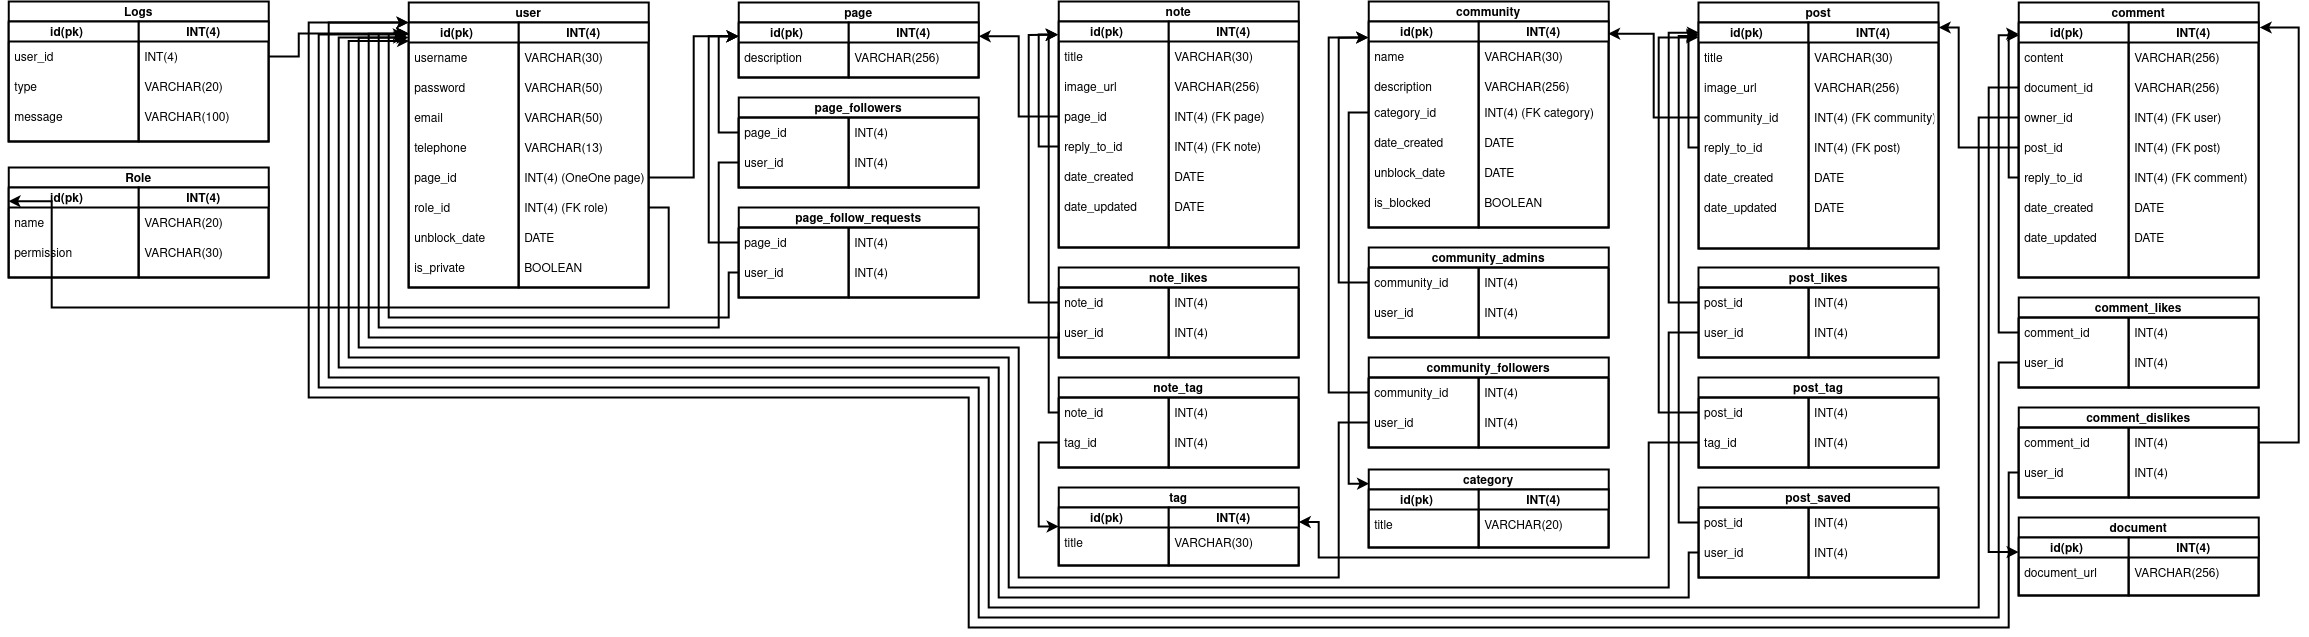
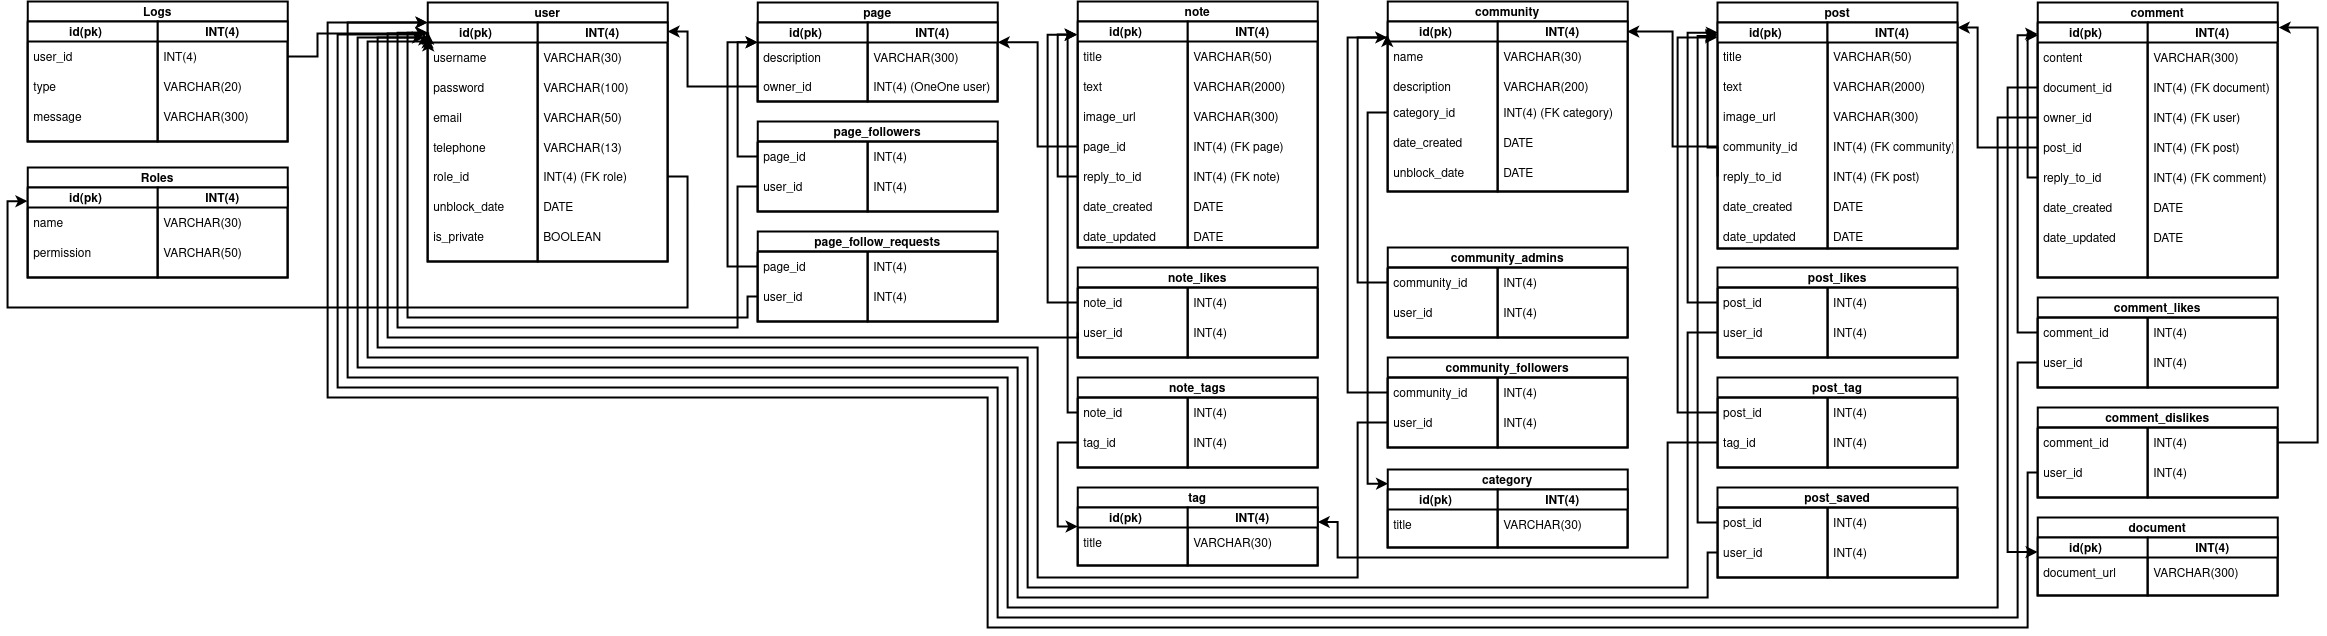
Edit entities according the 3NF

Changed region(s): [[0.0, 0.0, 0.9978, 1.0], [0.9043, 0.0, 0.9355, 0.0299], [0.6236, 0.0, 0.6548, 0.0299]]

diff --git a/ENTITIES.md b/ENTITIES.md
@@ -1,75 +1,143 @@
 # Описание сущностей
-(имя поля, тип, ограничения, связь с другими сущностями)
+( field name, type, constraints, description с другими сущностями)
 
 ## Пользователь (User)
-|имя поля | тип | ограничения | описание |
+| field name | type | constraints | description |
 |:---:|:---:|:---:|:---:|
-| id | pk | auto increment; not null; unique | первичный ключ |
-| username | VARCHAR(50) | not null; unique | имя пользователя |
-| password | VARCHAR(255) | not null | пароль |
-| email | VARCHAR(100) | blank=True | эл почта |
-| telephone | VARCHAR(10) | blank=True, unique | номер телефона |
+| id | INT | PRIMARY KEY | первичный ключ |
+| username | VARCHAR(30) | NOT NULL, UNIQUE | имя пользователя |
+| password | VARCHAR(100) | NOT NULL | пароль |
+| email | VARCHAR(50) | UNIQUE | эл почта |
+| telephone | VARCHAR(13) | UNIQUE | номер телефона |
 | unblock_date | DATE | - | дата разблокировки пользователя |
 ## Страница Пользователя (Page)
-|имя поля | тип | ограничения | описание |
+| field name | type | constraints | description |
 |:---:|:---:|:---:|:---:|
-| id | pk | auto increment; not null; unique | первичный ключ |
-| owner | OneToOneField(User) | not null | пользователь к которому прикреплена эта страница |
-| followers | ManyToMany(User) | not null | подписчики страницы |
-## Пост (Post)
-|имя поля | тип | ограничения | описание |
+| id | INT | PRIMARY KEY | первичный ключ |
+| description | VARCHAR(300) | - | подписчики страницы |
+| owner_id | INT | NOT NULL, UNIQUE, REFERENCES User(id) | пользователь к которому прикреплена эта страница |
+## Подписчики страницы (Page_followers)
+| field name | type | constraints | description |
 |:---:|:---:|:---:|:---:|
-| id | pk | auto increment; not null; unique | первичный ключ |
-| title | VARCHAR(100) | not null | заголовок поста |
-| likes | ManyToMany(User) | - | пользователи которые лайкнули пост |
-| image_url | VARCHAR(255) | - | ссылка s3 на изображение |
-| tag | ManyToMany(Tag) | not null | тег поста (тематика) |
-| page | ForeignKey(Page) | not null | страница пользователя который создал пост |
-| community | ForeignKey(Community) | not null | сообщество которое создало пост |
-| repost | ForeignKey(Post) | not null | пост который репостит этот пост |
-| date_created | DATE | not null | дата создания поста |
-## Сообщество (Community)
-|имя поля | тип | ограничения | описание |
+| page_id | INT | NOT NULL, REFERENCES Page(id) | страница на которую подписан пользователь |
+| user_id | INT | NOT NULL, REFERENCES User(id) | пользователь который подписан на страницу |
+## Запросы на подписку на страницу (Page_follow_requests)
+| field name | type | constraints | description |
 |:---:|:---:|:---:|:---:|
-| id | pk | auto increment; not null; unique | первичный ключ |
-| name | VARCHAR(50) | not null | название сообщества |
-| admins | ManyToMany(User) | not null | администраторы сообщества |
-| followers | ManyToMany(User) | not null | подписчики сообщества |
-| category | ForeignKey(Category) | not null | категория сообщества |
-| date_created | DATE | not null | дата создания сообщества |
-| unblock_date | DATE | - | дата разблокировки сообщества |
-## Комментарий (Comment)
-|имя поля | тип | ограничения | описание |
+| page_id | INT | NOT NULL, REFERENCES Page(id) | страница на которую подписан пользователь |
+| user_id | INT | NOT NULL, REFERENCES User(id) | пользователь который подписан на страницу |
+## Записка на странице (Note)
+| field name | type | constraints | description |
 |:---:|:---:|:---:|:---:|
-| id | pk | auto increment; not null; unique | первичный ключ |
-| content | VARCHAR(255) | not null | текстовый контент поста |
-| image_url | VARCHAR(255) | - | ссылка s3 на изображение |
-| likes | ForeignKey(User) | - | пользователи которые посчитали коммент ценным |
-| user | ForeignKey(User) | not null | пользователь который написал комент |
-| post | ForeignKey(Post) | not null | пост под которым написан комент |
-| reply_to | ForeignKey(Comment) | - | комент к которому прикреплен данный комент |
-| date_created | DATE | not null | дата создания коммента |
-| date_edited | DATE | - | дата последнего редактирования комента |
+| id | INT | PRIMARY KEY | первичный ключ |
+| title | VARCHAR(50) | - | заголовок записки |
+| text | VARCHAR(2000) | - | текст записки |
+| image_url | VARCHAR(300) | - | ссылка s3 на изображение |
+| page_id | INT | NOT NULL, REFERENCES Page(id) | страница на которой создана записка |
+| reply_to_id | INT | REFERENCES Note(id) | записка который репостит этот записку |
+| date_created | DATE | NOT NULL | дата создания записки |
+| date_updated | DATE | NOT NULL | дата последнего редактирования записки |
+## Лайки на записке (Note_likes)
+| field name | type | constraints | description |
+|:---:|:---:|:---:|:---:|
+| note_id | INT | NOT NULL, REFERENCES Note(id) | записка |
+| user_id | INT | NOT NULL, REFERENCES User(id) | пользователь который лайкнул |
+## Тэги записки (Note_tags)
+| field name | type | constraints | description |
+|:---:|:---:|:---:|:---:|
+| note_id | INT | NOT NULL, REFERENCES Note(id) | записка |
+| tag_id | INT | NOT NULL, REFERENCES Tag(id) | тэг |
 ## Тег (Tag)
-|имя поля | тип | ограничения | описание |
+| field name | type | constraints | description |
 |:---:|:---:|:---:|:---:|
-| id | pk | auto increment; not null; unique | первичный ключ |
-| title | VARCHAR(100) | not null | название тега |
+| id | INT | PRIMARY KEY | первичный ключ |
+| title | VARCHAR(30) | NOT NULL | название тега |
+## Сообщество (Community)
+| field name | type | constraints | description |
+|:---:|:---:|:---:|:---:|
+| id | INT | PRIMARY KEY | первичный ключ |
+| name | VARCHAR(30) | NOT NULL | название сообщества |
+| description | VARCHAR(200) | - | описание сообщества |
+| category_id | INT | REFERENCES Category(id) | название сообщества |
+| date_created | DATE | NOT NULL | дата создания сообщества |
+| unblock_date | DATE | - | дата разблокировки сообщества |
+## Администраторы сообщества (Community_admins)
+| field name | type | constraints | description |
+|:---:|:---:|:---:|:---:|
+| community_id | INT | NOT NULL, REFERENCES Community(id) | сообщество |
+| user_id | INT | NOT NULL, REFERENCES User(id) | администратор |
+## Подписчики сообщества (Community_followers)
+| field name | type | constraints | description |
+|:---:|:---:|:---:|:---:|
+| community_id | INT | NOT NULL, REFERENCES Community(id) | сообщество |
+| user_id | INT | NOT NULL, REFERENCES User(id) | подписчик |
 ## Категория (Category)
-|имя поля | тип | ограничения | описание |
+| field name | type | constraints | description |
 |:---:|:---:|:---:|:---:|
-| id | pk | auto increment; not null; unique | первичный ключ |
-| title | VARCHAR(100) | not null | название категории |
+| id | INT | PRIMARY KEY | первичный ключ |
+| title | VARCHAR(30) | NOT NULL | название категории |
+## Пост сообщества (Post)
+| field name | type | constraints | description |
+|:---:|:---:|:---:|:---:|
+| id | INT | PRIMARY KEY | первичный ключ |
+| title | VARCHAR(50) | - | заголовок поста |
+| text | VARCHAR(2000) | - | текст поста |
+| image_url | VARCHAR(300) | - | ссылка s3 на изображение |
+| community_id | INT | NOT NULL, REFERENCES Community(id) | страница на которой создан пост |
+| reply_to_id | INT | REFERENCES Post(id) | пост который репостит этот пост |
+| date_created | DATE | NOT NULL | дата создания поста |
+| date_updated | DATE | - | дата последнего редактирования поста |
+## Лайки на посте (Post_likes)
+| field name | type | constraints | description |
+|:---:|:---:|:---:|:---:|
+| post_id | INT | NOT NULL, REFERENCES Post(id) | пост |
+| user_id | INT | NOT NULL, REFERENCES User(id) | пользователь который лайкнул |
+## Тэги поста (Post_tags)
+| field name | type | constraints | description |
+|:---:|:---:|:---:|:---:|
+| post_id | INT | NOT NULL, REFERENCES Post(id) | пост |
+| tag_id | INT | NOT NULL, REFERENCES Tag(id) | тэг |
+## Пользователи сохранившие пост (Post_saved)
+| field name | type | constraints | description |
+|:---:|:---:|:---:|:---:|
+| post_id | INT | NOT NULL, REFERENCES Post(id) | пост |
+| user_id | INT | NOT NULL, REFERENCES User(id) | пользовтель сохранивший пост |
+## Комментарий (Comment)
+| field name | type | constraints | description |
+|:---:|:---:|:---:|:---:|
+| id | INT | PRIMARY KEY | первичный ключ |
+| content | VARCHAR(300) | - | текстовый контент поста |
+| document_id | REFERENCES Document(id) | - | ссылка s3 на документ |
+| owner_id | NOT NULL, REFERENCES User(id) | - | пользователь который написал коммент |
+| post_id | NOT NULL, REFERENCES User(id) | NOT NULL | пост под которым написан комент |
+| reply_to_id | NOT NULL, REFERENCES Comment(id) | NOT NULL | комент к которому прикреплен данный комент |
+| date_created | DATE | NOT NULL | дата создания коммента |
+| date_edited | DATE | - | дата последнего редактирования комента |
+## Лайки коммента (Comment_likes)
+| field name | type | constraints | description |
+|:---:|:---:|:---:|:---:|
+| post_id | INT | NOT NULL, REFERENCES Post(id) | пост |
+| user_id | INT | NOT NULL, REFERENCES User(id) | пользователь поставивший лайк |
+## Дизлайки коммента (Comment_dislikes)
+| field name | type | constraints | description |
+|:---:|:---:|:---:|:---:|
+| post_id | INT | NOT NULL, REFERENCES Post(id) | пост |
+| user_id | INT | NOT NULL, REFERENCES User(id) | пользователь поставивший дизлайк |
+## Документ (Document)
+| field name | type | constraints | description |
+|:---:|:---:|:---:|:---:|
+| id | INT | PRIMARY KEY | первичный ключ |
+| document_url | VARCHAR(300) | - | ссылка s3 на документ |
 ## Роли (Roles)
-|имя поля | тип | ограничения | описание |
+| field name | type | constraints | description |
 |:---:|:---:|:---:|:---:|
-| id | pk | auto increment; not null; unique | первичный ключ |
-| name | VARCHAR(50) | not null | название роли |
-| permission | VARCHAR(128) | not null | право пользователя |
+| id | INT | PRIMARY KEY | первичный ключ |
+| name | VARCHAR(30) | NOT NULL | название роли |
+| permission | VARCHAR(50) | NOT NULL | право пользователя |
 ## Логи (Logs)
-|имя поля | тип | ограничения | описание |
+| field name | type | constraints | description |
 |:---:|:---:|:---:|:---:|
-| id | pk | auto increment; not null; unique | первичный ключ |
-| user | ForeignKey(User) | not null | внешний ключ на пользователя |
-| type | VARCHAR(50) | not null | тип лога(CREATE/UPDATE/DELETE) |
-| representation | VARCHAR(255) | not null | строковое представление изменённого кортежа |
+| id | INT | PRIMARY KEY | первичный ключ |
+| user_id | INT | NOT NULL, REFERENCES User(id) | внешний ключ на пользователя |
+| type | VARCHAR(20) | NOT NULL | тип лога(CREATE/UPDATE/DELETE) |
+| message | VARCHAR(300) | NOT NULL | сообщение характеризующее лог |

diff --git a/TT.md b/TT.md
@@ -2,11 +2,12 @@
 ## Сущности
 - Пользователь
 - Страница Пользователя
-- Пост
-- Сообщество
-- Комментарий
+- Записка
 - Тег
+- Сообщество
 - Категория
+- Пост
+- Комментарий
 - Роли
 - Логи
 ---
